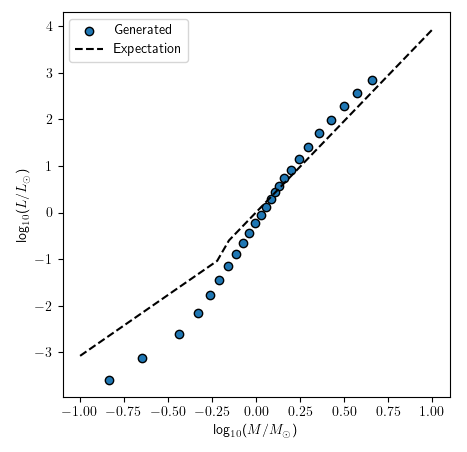
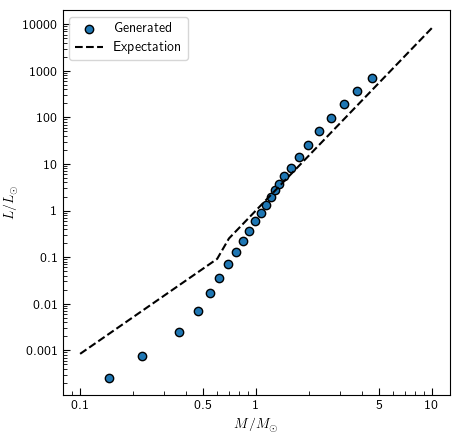
plotting

diff --git a/diagrams.py b/diagrams.py
@@ -44,15 +44,16 @@ def HR_diag(data, savepath=""):
 
         Lscaled = fff.L/s.Lsun * 1e-7
 
-        #ax.scatter(fff[filter].Tsurf, Lscaled, label=rf'$\lambda$ = {lam}', edgecolor='black', lw=1)
+        ax.scatter(fff.Tsurf, Lscaled, label=rf'$\lambda$ = {lam}', edgecolor='black', lw=1)
+        """
         f1 = fff.Tsurf > 1e4
-        f2 = Lscaled > 0.6
+        f2 = Lscaled > 0.65
         f4 = fff.Tsurf < 1e4
-        f3 = Lscaled < 0.6
+        f3 = Lscaled < 0.65
         ax.scatter(fff[f1].Tsurf, Lscaled[f1], label='Region 1', edgecolor='black', lw=1)
         ax.scatter(fff[f2*f4].Tsurf, Lscaled[f2*f4], label='Region 2', edgecolor='black', lw=1)
         ax.scatter(fff[f3].Tsurf, Lscaled[f3], label='Region 3', edgecolor='black', lw=1)
-
+        """
     #from p. 342 in Ryden
     spectral_type = ['O', 'B', 'A', 'F', 'G', 'K', 'M', 'L', 'T']
     spectral_temp = [40000, 20000, 9000, 7000, 5500, 4500, 3000, 2000, 1300]
@@ -63,10 +64,10 @@ def HR_diag(data, savepath=""):
     ax_t.set_xticks([1000, 5000, 1e4], ['1000', '5000', r'10$^4$'])
 
     ax.set_ylabel(r'$L$/$L_\odot$', rotation=0)
-    ax.set_yticks([0.01, 0.1, 1, 10, 100], ['0.01', '0.1', '1', '10', '100'])
+    ax.set_yticks([0.001, 0.01, 0.1, 1, 10, 100, 500], ['0.001', '0.01', '0.1', '1', '10', '100', '500'])
 
-    #ax.set_xlim(50000, 1000)
-    lgd = plt.legend()
+    ax.set_xlim(50000, 1000)
+    #lgd = plt.legend()
 
     if savepath != "":
         plt.savefig(savepath)
@@ -85,17 +86,22 @@ def LM_diag(data, savepath=""):
     """
 
     fig, ax = plt.subplots(figsize=(5,5))
+    ax.set_xscale('log')
+    ax.set_yscale('log')
+    ax.tick_params(direction='in', which='both')
+    ax.tick_params(which='major', length=5)
+    ax.tick_params(which='minor', length=3)
 
     for xx in data:
         fff, lam = xx
 
-        filter = fff.R < 3.47e12 #means that the code broke
+        #filter = fff.R < 3.47e12 #means that the code broke
 
-        Lscaled = fff[filter].L/s.Lsun * 1e-7
-        Mscaled = fff[filter].M/s.Msun / 1000
+        Lscaled = fff.L/s.Lsun * 1e-7
+        Mscaled = fff.M/s.Msun / 1000
 
         #ax.scatter(np.log10(Mscaled), np.log10(Lscaled), label=rf'$\lambda$ = {lam}', edgecolor='black', lw=1)
-        ax.scatter(np.log10(Mscaled), np.log10(Lscaled), label='Generated', edgecolor='black', lw=1)
+        ax.scatter(Mscaled, Lscaled, label='Generated', edgecolor='black', lw=1)
 
 
     #from Ryden p. 330
@@ -107,10 +113,12 @@ def LM_diag(data, savepath=""):
         else:
             Ltest.append(1.02*(M**3.92))
 
-    plt.plot(np.log10(Mtest), np.log10(Ltest), label='Expectation', ls='--', color='black')
+    plt.plot(Mtest, Ltest, label='Expectation', ls='--', color='black')
 
-    ax.set_xlabel(r'log$_{10}$($M$/$M_\odot$)')
-    ax.set_ylabel(r'log$_{10}$($L$/$L_\odot$)')
+    ax.set_xlabel(r'$M$/$M_\odot$')
+    ax.set_ylabel(r'$L$/$L_\odot$')
+    ax.set_xticks([0.1, 0.5, 1, 5, 10], ['0.1', '0.5', '1', '5', '10'])
+    ax.set_yticks([0.001, 0.01, 0.1, 1, 10, 100, 1000, 10000], ['0.001', '0.01', '0.1', '1', '10', '100', '1000', '10000'])
 
     plt.legend()
 
@@ -131,17 +139,22 @@ def RM_diag(data, savepath=""):
     """
 
     fig, ax = plt.subplots(figsize=(5,5))
+    ax.set_xscale('log')
+    ax.set_yscale('log')
+    ax.tick_params(direction='in', which='both')
+    ax.tick_params(which='major', length=5)
+    ax.tick_params(which='minor', length=3)
 
     for xx in data:
         fff, lam = xx
 
-        filter = fff.R < 3.47e12 #means that the code broke
+        #filter = fff.R < 3.47e12 #means that the code broke
 
-        Rscaled = fff[filter].R/s.Rsun / 100
-        Mscaled = fff[filter].M/s.Msun / 1000
+        Rscaled = fff.R/s.Rsun / 100
+        Mscaled = fff.M/s.Msun / 1000
 
         #ax.scatter(np.log10(Mscaled), np.log10(Rscaled), label=rf'$\lambda$ = {lam}', edgecolor='black', lw=1)
-        ax.scatter(np.log10(Mscaled), np.log10(Rscaled), label='Generated', edgecolor='black', lw=1)
+        ax.scatter(Mscaled, Rscaled, label='Generated', edgecolor='black', lw=1)
 
     #from Ryden p. 330
     Mtest = np.linspace(0.1, 10, 100)
@@ -152,12 +165,14 @@ def RM_diag(data, savepath=""):
         else:
             Rtest.append(1.33*(M**0.555))
 
-    plt.plot(np.log10(Mtest), np.log10(Rtest), label='Expectation', ls='--', color='black')
+    plt.plot(Mtest, Rtest, label='Expectation', ls='--', color='black')
 
-    ax.set_xlabel(r'log$_{10}$($M$/$M_\odot$)')
-    ax.set_ylabel(r'log$_{10}$($R$/$R_\odot$)')
+    ax.set_xlabel(r'$M$/$M_\odot$')
+    ax.set_ylabel(r'$R$/$R_\odot$')
+    ax.set_xticks([0.1, 0.5, 1, 5, 10], ['0.1', '0.5', '1', '5', '10'])
+    ax.set_yticks([0.1, 1, 10, 50], ['0.1', '1', '10', '50'])
 
-    plt.legend()
+    plt.legend(loc='upper left')
 
 
     if savepath != "":
